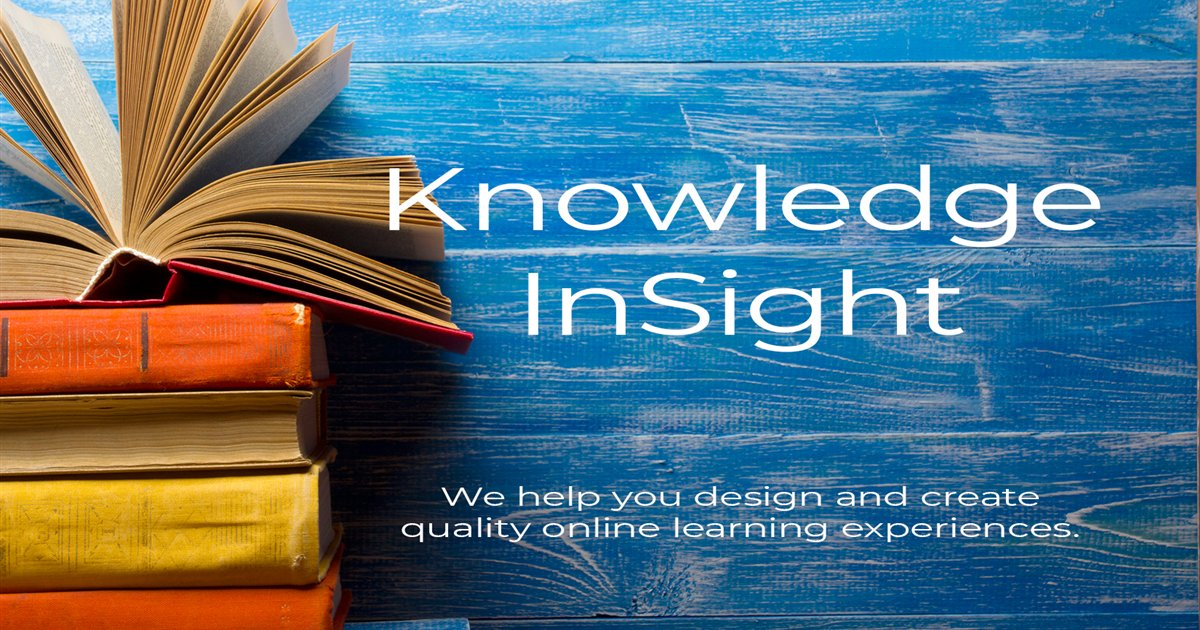
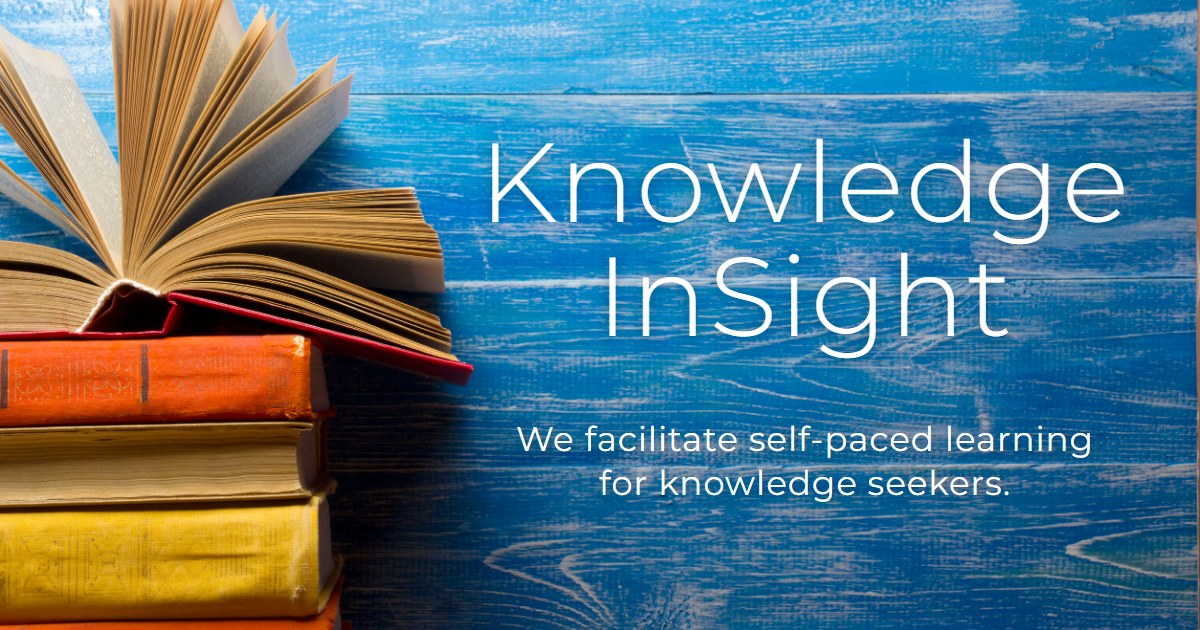
Public website

diff --git a/tools/og-card.html b/tools/og-card.html
@@ -1,0 +1,39 @@
+<!doctype html>
+<!--
+  Source for docs/assets/img/og-card.jpg, the 1200x630 social sharing card.
+  Not part of the site. Rendered by tools/og-card.ps1, which screenshots this
+  page with headless Edge and converts it to JPEG.
+
+  The background is the licensed stock original in images/ (local only), so
+  this renders only on a machine that has it. Edit the tagline below to match
+  "tagline" in content/site.json.
+-->
+<html lang="en">
+<head>
+<meta charset="utf-8">
+<link rel="stylesheet" href="https://fonts.googleapis.com/css2?family=Montserrat:wght@300;400&display=swap">
+<style>
+  html, body { margin: 0; width: 1200px; height: 630px; overflow: hidden; background: #2f75b3; }
+  .card {
+    position: relative; width: 1200px; height: 630px;
+    background: url("../images/knowledge-insight-background.jpg") 0 42% / cover no-repeat;
+    font-family: "Montserrat", sans-serif; color: #fff;
+  }
+  .words {
+    position: absolute; left: 440px; right: 30px; top: 0; bottom: 0;
+    display: flex; flex-direction: column; justify-content: center; align-items: center;
+    text-align: center; text-shadow: 0 2px 14px rgba(10, 30, 60, .45);
+  }
+  .name { font-weight: 300; font-size: 112px; line-height: 1.02; letter-spacing: .02em; margin: 0; }
+  .tagline { font-weight: 400; font-size: 34px; line-height: 1.3; letter-spacing: .03em; margin: 64px 0 0; max-width: 700px; }
+</style>
+</head>
+<body>
+<div class="card">
+  <div class="words">
+    <p class="name">Knowledge<br>InSight</p>
+    <p class="tagline">We facilitate self-paced learning<br>for knowledge seekers.</p>
+  </div>
+</div>
+</body>
+</html>

diff --git a/tools/unused.py b/tools/unused.py
@@ -23,7 +23,7 @@ DERIVED_FROM = {
     "hero-books-blue-800.jpg": "knowledge-insight-background.jpg",
     "hero-books-blue-1280.jpg": "knowledge-insight-background.jpg",
     "hero-books-blue-1920.jpg": "knowledge-insight-background.jpg",
-    "og-card.jpg": "KI background.png",
+    "og-card.jpg": "knowledge-insight-background.jpg",
     "apple-touch-icon.png": "logo.png",
     "favicon-32.png": "logo.png",
     "logo-mark-256.png": "logo.png",

diff --git a/README.md b/README.md
@@ -347,7 +347,7 @@ licensed stock photos that may be used on the site but not redistributed).
 | `hero-books-blue-{480,800,1280,1920}.jpg` | `knowledge-insight-background.jpg` | splash hero, responsive set |
 | `ki-mark.svg` | new | favicon and standalone mark |
 | `ki-wordmark.svg` | new | transparent wordmark for print and decks (not used by the site) |
-| `og-card.jpg` | `KI background.png` | social sharing card, 1200x630 |
+| `og-card.jpg` | `knowledge-insight-background.jpg` | social sharing card, 1200x630; rendered from `tools/og-card.html` by `tools/og-card.ps1` |
 | `adam-h.jpg` | `adam-h.jpg` | About page portrait |
 | `apple-touch-icon.png`, `favicon-32.png` | `logo.png` | icons |
 
